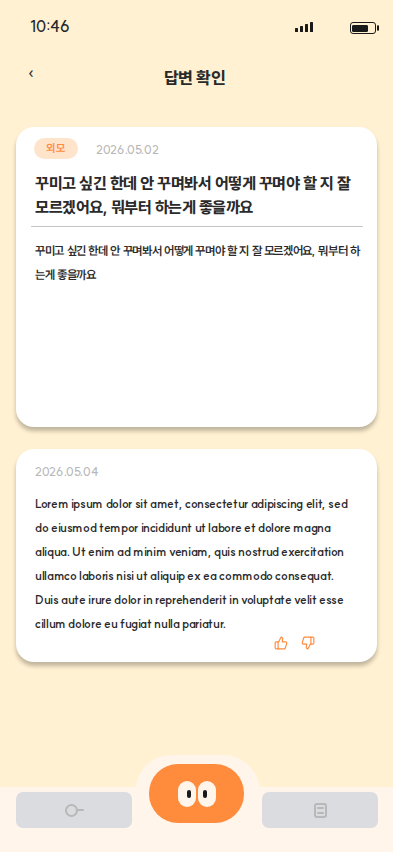
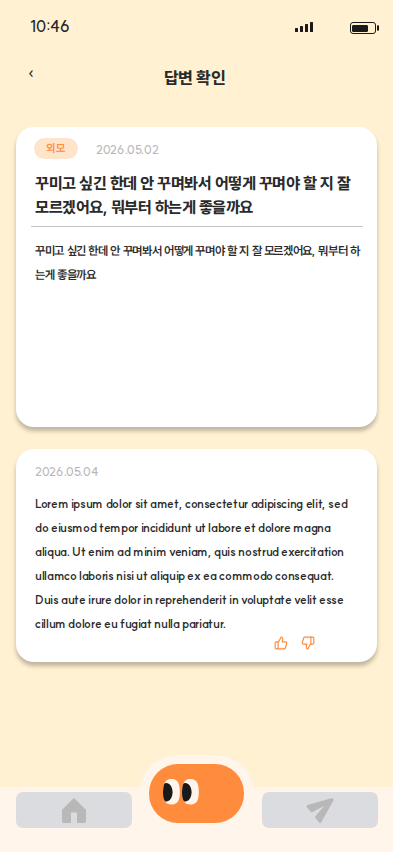
png 6 7 8 v5

diff --git a/src/screens/shared/ui.tsx b/src/screens/shared/ui.tsx
@@ -79,13 +79,32 @@ export function BottomNavigation({
   if (variant === 'pixel-aligned') {
     const sideTabs = tabs.filter(({ tab }) => tab !== centralAction.ownerTab);
     const ownerTab = tabs.find(({ tab }) => tab === centralAction.ownerTab);
+    const leftTab = sideTabs[0];
+    const rightTab = sideTabs[1];
+    const isLeftActive = leftTab ? activeTab === leftTab.tab : false;
+    const isRightActive = rightTab ? activeTab === rightTab.tab : false;
 
     return (
       <nav
         aria-label="주요 화면"
-        className="absolute left-0 bottom-0 z-50 h-[112px] w-[393px] overflow-hidden bg-transparent"
+        className="absolute left-0 bottom-[-7px] z-50 h-[104px] w-[393px] overflow-visible bg-transparent"
       >
-        <div className="absolute left-0 top-[47px] h-[65px] w-[393px] bg-[#fff5eb]" aria-hidden="true" />
+        <svg
+          aria-hidden="true"
+          className="absolute left-0 top-0 h-[104px] w-[417px]"
+          fill="none"
+          preserveAspectRatio="none"
+          viewBox="0 0 417 104"
+        >
+          <rect fill="#FFF5EB" height="88" rx="37" width="114" x="140" />
+          <path d="M0 32H417V104H0V32Z" fill="#FFF5EB" />
+          <rect fill="#FF8B3D" height="59" rx="29" width="95" x="149" y="9" />
+          <ReferenceMenuEyeIcon />
+          <rect fill={isLeftActive ? '#FAE5D7' : '#DADCE0'} height="36" rx="7" width="116" x="16" y="37" />
+          <rect fill={isRightActive ? '#FAE5D7' : '#DADCE0'} height="36" rx="7" width="116" x="262" y="37" />
+          <ReferenceMenuHomeIcon fill={isLeftActive ? '#FF8B3D' : '#B8B8B8'} />
+          <ReferenceMenuSendIcon fill={isRightActive ? '#FF8B3D' : '#B8B8B8'} />
+        </svg>
         {ownerTab && (
           <button
             type="button"
@@ -93,7 +112,7 @@ export function BottomNavigation({
             aria-current={activeTab === ownerTab.tab ? 'page' : undefined}
             onClick={() => onSelectTab(ownerTab.tab)}
             className={cn(
-              'absolute left-[135px] top-[15px] h-[80px] w-[125px] rounded-[37px] bg-[#fff5eb] focus:outline-none focus:ring-2 focus:ring-[#ff8b3d] focus:ring-offset-0',
+              'absolute left-[140px] top-0 z-10 h-[88px] w-[114px] rounded-[37px] bg-transparent focus:outline-none focus:ring-2 focus:ring-[#ff8b3d] focus:ring-offset-0',
               activeTab === ownerTab.tab && 'ring-0',
             )}
           >
@@ -106,46 +125,32 @@ export function BottomNavigation({
           data-target-route={centralAction.targetRoute}
           data-owner-tab={centralAction.ownerTab}
           onClick={onCentralAction}
-          className="absolute left-[149px] top-[24px] flex h-[59px] w-[95px] items-center justify-center rounded-[29px] bg-[#ff8b3d] focus:outline-none focus:ring-2 focus:ring-[#2a2a2a] focus:ring-offset-0"
+          className="absolute left-[149px] top-[9px] z-20 h-[59px] w-[95px] rounded-[29px] bg-transparent focus:outline-none focus:ring-2 focus:ring-[#2a2a2a] focus:ring-offset-0"
         >
-          <span className="relative h-[26px] w-[48px]" aria-hidden="true">
-            <span className="absolute left-[5px] top-0 h-[26px] w-[18px] rounded-full bg-[#fff5eb]" />
-            <span className="absolute left-[25px] top-0 h-[26px] w-[18px] rounded-full bg-[#fff5eb]" />
-            <span className="absolute left-[14px] top-[9px] h-[8px] w-[4px] rounded-full bg-[#1a1a1a]" />
-            <span className="absolute left-[30px] top-[9px] h-[8px] w-[4px] rounded-full bg-[#1a1a1a]" />
-          </span>
+          <span className="sr-only">{centralAction.label}</span>
         </button>
-        {sideTabs.map(({ tab, label }, index) => {
-          const isActive = activeTab === tab;
-          return (
-            <button
-              key={tab}
-              type="button"
-              aria-label={label}
-              aria-current={isActive ? 'page' : undefined}
-              onClick={() => onSelectTab(tab)}
-              className={cn(
-                'absolute top-[52px] flex h-[36px] w-[116px] items-center justify-center rounded-[7px] focus:outline-none focus:ring-2 focus:ring-[#ff8b3d] focus:ring-offset-0',
-                index === 0 ? 'left-[16px]' : 'left-[262px]',
-                isActive ? 'bg-[#fae5d7] text-[#ff8b3d]' : 'bg-[#dadce0] text-[#b8b8b8]',
-              )}
-            >
-              {index === 0 ? (
-                <span className="relative h-[17px] w-[19px]" aria-hidden="true">
-                  <span className="absolute left-0 top-[2px] h-[13px] w-[13px] rounded-full border-[2px] border-current" />
-                  <span className="absolute left-[12px] top-[7px] h-[2px] w-[7px] rounded-full bg-current" />
-                </span>
-              ) : (
-                <span className="relative h-[17px] w-[17px]" aria-hidden="true">
-                  <span className="absolute left-[2px] top-[1px] h-[15px] w-[13px] rounded-[3px] border-[2px] border-current" />
-                  <span className="absolute left-[5px] top-[5px] h-[2px] w-[7px] rounded-full bg-current" />
-                  <span className="absolute left-[5px] top-[10px] h-[2px] w-[7px] rounded-full bg-current" />
-                </span>
-              )}
-              <span className="sr-only">{label}</span>
-            </button>
-          );
-        })}
+        {leftTab && (
+          <button
+            type="button"
+            aria-label={leftTab.label}
+            aria-current={isLeftActive ? 'page' : undefined}
+            onClick={() => onSelectTab(leftTab.tab)}
+            className="absolute left-[16px] top-[37px] z-20 h-[36px] w-[116px] rounded-[7px] bg-transparent focus:outline-none focus:ring-2 focus:ring-[#ff8b3d] focus:ring-offset-0"
+          >
+            <span className="sr-only">{leftTab.label}</span>
+          </button>
+        )}
+        {rightTab && (
+          <button
+            type="button"
+            aria-label={rightTab.label}
+            aria-current={isRightActive ? 'page' : undefined}
+            onClick={() => onSelectTab(rightTab.tab)}
+            className="absolute left-[262px] top-[37px] z-20 h-[36px] w-[116px] rounded-[7px] bg-transparent focus:outline-none focus:ring-2 focus:ring-[#ff8b3d] focus:ring-offset-0"
+          >
+            <span className="sr-only">{rightTab.label}</span>
+          </button>
+        )}
       </nav>
     );
   }
@@ -191,6 +196,46 @@ export function BottomNavigation({
       </div>
     </nav>
   );
+}
+
+const referenceMenuPaths = {
+  p110abb00: 'M191.567 37.254C191.567 42.3804 188.747 46.5363 185.269 46.5363C181.79 46.5363 178.971 44.1811 178.971 37.254C178.971 32.1275 181.79 27.9717 185.269 27.9717C188.747 27.9717 191.567 32.1275 191.567 37.254Z',
+  p15619480: 'M171.445 25C173.661 25.0001 175.364 25.423 176.591 26.8975C177.873 28.4385 178.814 31.33 178.874 36.7569C178.933 42.1729 177.989 45.0535 176.688 46.5869C175.432 48.0665 173.665 48.4912 171.445 48.4912C169.283 48.4912 167.443 47.9447 166.141 46.3701C164.804 44.7543 163.865 41.8616 164.016 36.7754C164.167 31.6584 165.1 28.7376 166.386 27.1026C167.616 25.5384 169.297 25 171.445 25Z',
+  p23c07380: 'M198.85 36.7299C198.97 47.6896 195.081 49.4598 190.433 49.4598C185.785 49.4598 181.71 47.087 182.016 36.7299C182.322 26.3727 185.785 24 190.433 24C195.081 24 198.729 25.7701 198.85 36.7299Z',
+  p29c4a2f0: 'M74.3486 43.1456C74.2556 43.0522 74.1318 43 74.0031 43C73.8744 43 73.7507 43.0522 73.6576 43.1456L62.1562 54.6875C62.1073 54.7366 62.0685 54.7956 62.042 54.8609C62.0154 54.9262 61.9999 55.0696 62 55.1406V65.8999C62 66.4569 62.2106 66.9911 62.5855 67.3849C62.9605 67.7787 63.469 68 63.9992 68H70.0029C70.268 68 70.5223 67.8894 70.7097 67.6925C70.8972 67.4955 71.0025 67.2285 71.0025 66.95V58.0247C71.0025 57.8854 71.0552 57.7519 71.1489 57.6534C71.2426 57.5549 71.3697 57.4996 71.5023 57.4996H76.5002C76.6328 57.4996 76.7599 57.5549 76.8536 57.6534C76.9473 57.7519 77 57.8854 77 58.0247V66.95C77 67.2285 77.1053 67.4955 77.2928 67.6925C77.4802 67.8894 77.7345 68 77.9996 68H84.0008C84.531 68 85.0395 67.7787 85.4145 67.3849C85.7894 66.9911 86 66.4569 86 65.8999V55.0675C86.0001 54.9965 85.9864 54.9262 85.9599 54.8609C85.9334 54.7956 85.8945 54.7366 85.8457 54.6875L74.3486 43.1456Z',
+  p31e3c200: 'M190.445 25C192.661 25.0001 194.364 25.423 195.591 26.8975C196.873 28.4385 197.814 31.33 197.874 36.7569C197.933 42.1729 196.989 45.0535 195.688 46.5869C194.432 48.0665 192.665 48.4912 190.445 48.4912C188.283 48.4912 186.443 47.9447 185.141 46.3701C183.804 44.7543 182.865 41.8616 183.016 36.7754C183.167 31.6584 184.1 28.7376 185.386 27.1026C186.616 25.5384 188.297 25 190.445 25Z',
+  p37614900: 'M331.357 43.178L331.348 43.1804L307.464 50.0019C307.263 50.0587 307.078 50.1645 306.928 50.3099C306.778 50.4553 306.665 50.6357 306.602 50.835C306.533 51.0434 306.517 51.2657 306.555 51.4819C306.594 51.698 306.685 51.9013 306.821 52.0733L310.607 56.8386C310.794 57.0735 311.057 57.2359 311.351 57.2978C311.644 57.3597 311.95 57.3173 312.216 57.1777L323.453 51.2051C323.497 51.1818 323.548 51.1747 323.597 51.185C323.646 51.1954 323.69 51.2225 323.721 51.2616C323.753 51.3008 323.769 51.3497 323.768 51.3997C323.767 51.4497 323.748 51.4978 323.716 51.5357L315.358 61.1313C315.162 61.3584 315.051 61.6467 315.045 61.9467C315.039 62.2466 315.137 62.5394 315.323 62.7745L319.11 67.5407C319.24 67.7049 319.409 67.8342 319.602 67.917C319.795 67.9998 320.005 68.0334 320.214 68.015C320.465 67.9935 320.705 67.8984 320.903 67.7414C321.041 67.632 321.155 67.4963 321.239 67.3421L333.317 45.6614L333.322 45.6513C333.481 45.3553 333.55 45.019 333.52 44.6842C333.49 44.3494 333.363 44.0307 333.154 43.7675C332.945 43.5043 332.663 43.3082 332.344 43.2034C332.024 43.0986 331.681 43.0898 331.357 43.178Z',
+  p3dc36300: 'M179.85 36.7299C179.97 47.6896 176.081 49.4598 171.433 49.4598C166.785 49.4598 162.71 47.087 163.016 36.7299C163.322 26.3727 166.785 24 171.433 24C176.081 24 179.729 25.7701 179.85 36.7299Z',
+  pad1b700: 'M172.567 37.254C172.567 42.3804 169.747 46.5363 166.269 46.5363C162.79 46.5363 159.971 44.1811 159.971 37.254C159.971 32.1275 162.79 27.9717 166.269 27.9717C169.747 27.9717 172.567 32.1275 172.567 37.254Z',
+} as const;
+
+function ReferenceMenuEyeIcon() {
+  return (
+    <>
+      <path d={referenceMenuPaths.p3dc36300} fill="#FFF5EB" />
+      <mask height="26" id="pixel-nav-eye-left-mask" maskUnits="userSpaceOnUse" style={{ maskType: 'alpha' }} width="17" x="163" y="24">
+        <path d={referenceMenuPaths.p15619480} fill="#FFF5EB" stroke="black" strokeWidth="2" />
+      </mask>
+      <g mask="url(#pixel-nav-eye-left-mask)">
+        <path d={referenceMenuPaths.pad1b700} fill="#1A1A1A" />
+      </g>
+      <path d={referenceMenuPaths.p23c07380} fill="#FFF5EB" />
+      <mask height="26" id="pixel-nav-eye-right-mask" maskUnits="userSpaceOnUse" style={{ maskType: 'alpha' }} width="17" x="182" y="24">
+        <path d={referenceMenuPaths.p31e3c200} fill="#FFF5EB" stroke="black" strokeWidth="2" />
+      </mask>
+      <g mask="url(#pixel-nav-eye-right-mask)">
+        <path d={referenceMenuPaths.p110abb00} fill="#1A1A1A" />
+      </g>
+    </>
+  );
+}
+
+function ReferenceMenuHomeIcon({ fill }: { readonly fill: string }) {
+  return <path d={referenceMenuPaths.p29c4a2f0} fill={fill} />;
+}
+
+function ReferenceMenuSendIcon({ fill }: { readonly fill: string }) {
+  return <path d={referenceMenuPaths.p37614900} fill={fill} />;
 }
 
 export function ContentSheet({ children, className }: { readonly children: ReactNode; readonly className?: string }) {

diff --git a/src/screens/receivedWorries/ReceivedWorriesScreen.tsx b/src/screens/receivedWorries/ReceivedWorriesScreen.tsx
@@ -1,4 +1,4 @@
-import { Bell, Loader2, XCircle } from 'lucide-react';
+import { Loader2, XCircle } from 'lucide-react';
 import type { MouseEvent } from 'react';
 import {
   EmptyState,
@@ -34,18 +34,8 @@ export function ReceivedWorriesScreen(props: ReceivedWorriesScreenProps) {
       aria-label="받은 고민 목록"
     >
       <ReferenceStatusBar tone="light" />
-      <div aria-hidden="true" className="absolute left-[42px] top-[74px] h-[27px] w-[38px]">
-        <div className="absolute left-0 top-0 h-[27px] w-[18px] rounded-full bg-[#fff5eb]" />
-        <div className="absolute left-[18px] top-0 h-[27px] w-[18px] rounded-full bg-[#fff5eb]" />
-        <div className="absolute left-[12px] top-[8px] h-[10px] w-[5px] rounded-full bg-[#1a1a1a]" />
-        <div className="absolute left-[25px] top-[8px] h-[10px] w-[5px] rounded-full bg-[#1a1a1a]" />
-      </div>
-      <div
-        aria-hidden="true"
-        className="absolute left-[339px] top-[74px] flex h-[25px] w-[25px] items-center justify-center rounded-full border-2 border-white text-white"
-      >
-        <Bell className="h-[14px] w-[14px]" strokeWidth={2} />
-      </div>
+      <ReferenceProfileIcon />
+      <ReferenceTopRightProfileButtonIcon />
 
       <div className="absolute left-0 top-[119px] h-[733px] w-[393px] overflow-hidden rounded-t-[32px] bg-[#fff1d1] px-[16px] pt-[20px]">
         {props.items.map((item, index) => {
@@ -56,7 +46,7 @@ export function ReceivedWorriesScreen(props: ReceivedWorriesScreenProps) {
           <article
             key={item.deliveryId}
             className="absolute h-[135px] w-[361px] overflow-hidden rounded-[18px] bg-white shadow-[0_4px_4px_rgba(0,0,0,0.25)]"
-            style={{ left: 16, top: 139 + index * 149 }}
+            style={{ left: 16, top: 20 + index * 149 }}
           >
             <button
               type="button"
@@ -95,6 +85,52 @@ export function ReceivedWorriesScreen(props: ReceivedWorriesScreenProps) {
         );
       })}
       </div>
+    </div>
+  );
+}
+
+const receivedWorriesProfilePaths = {
+  p10968100: 'M51.5494 19.8501C51.5494 27.528 47.829 33.7521 43.2396 33.7521C38.6503 33.7521 34.9299 30.2247 34.9299 19.8501C34.9299 12.1722 38.6503 5.94812 43.2396 5.94812C47.829 5.94812 51.5494 12.1722 51.5494 19.8501Z',
+  p2f1c2d00: 'M21.7228 19.3387C21.8778 35.5589 16.8647 38.1786 10.8719 38.1786C4.87903 38.1786 -0.373688 34.667 0.0208912 19.3387C0.415471 4.0104 4.87903 0.498821 10.8719 0.498821C16.8647 0.498821 21.5678 3.11857 21.7228 19.3387Z',
+  p2f962800: 'M25.8164 19.8501C25.8164 27.528 22.096 33.7521 17.5066 33.7521C12.9173 33.7521 9.19687 30.2247 9.19687 19.8501C9.19687 12.1722 12.9173 5.94812 17.5066 5.94812C22.096 5.94812 25.8164 12.1722 25.8164 19.8501Z',
+  p360ee270: 'M47.9965 19.3387C48.1587 35.5589 42.9124 38.1786 36.6408 38.1786C30.3692 38.1786 24.8722 34.667 25.2851 19.3387C25.6981 4.0104 30.3692 0.498821 36.6408 0.498821C42.9124 0.498821 47.8342 3.11857 47.9965 19.3387Z',
+  p37b21770: 'M47.9964 19.0893C48.1552 35.5242 43.0173 38.1786 36.8754 38.1786C30.7334 38.1786 25.35 34.6205 25.7544 19.0893C26.1588 3.55806 30.7334 0 36.8754 0C43.0173 0 47.8375 2.65443 47.9964 19.0893Z',
+  pf977a80: 'M22.2634 19.0893C22.4222 35.5242 17.2843 38.1786 11.1424 38.1786C5.00044 38.1786 -0.382987 34.6205 0.0214111 19.0893C0.425809 3.55808 5.00044 1.72574e-05 11.1424 1.72574e-05C17.2843 1.72574e-05 22.1045 2.65444 22.2634 19.0893Z',
+  p36aa5a00: 'M12.4998 12.4306C14.4942 12.4306 16.1109 10.8139 16.1109 8.81951C16.1109 6.82515 14.4942 5.2084 12.4998 5.2084C10.5055 5.2084 8.88871 6.82515 8.88871 8.81951C8.88871 10.8139 10.5055 12.4306 12.4998 12.4306Z',
+  p37b1ab00: 'M19.722 21.4584V19.6528C19.722 18.6951 19.3416 17.7766 18.6644 17.0994C17.9872 16.4222 17.0687 16.0417 16.1109 16.0417H8.88871C7.93098 16.0417 7.01248 16.4222 6.33527 17.0994C5.65805 17.7766 5.2776 18.6951 5.2776 19.6528V21.4584',
+} as const;
+
+function ReferenceProfileIcon() {
+  return (
+    <div aria-hidden="true" className="absolute left-[32px] top-[68px] h-[38.179px] w-[48.001px]">
+      <svg className="absolute inset-0 block size-full" fill="none" preserveAspectRatio="none" viewBox="0 0 48.0001 38.1786">
+        <path d={receivedWorriesProfilePaths.p2f1c2d00} fill="#FFF5EB" />
+        <mask height="39" id="received-profile-left-mask" maskUnits="userSpaceOnUse" style={{ maskType: 'alpha' }} width="23" x="0" y="0">
+          <path d={receivedWorriesProfilePaths.pf977a80} fill="#FFF5EB" />
+        </mask>
+        <g mask="url(#received-profile-left-mask)">
+          <path d={receivedWorriesProfilePaths.p2f962800} fill="#1A1A1A" />
+        </g>
+        <path d={receivedWorriesProfilePaths.p360ee270} fill="#FFF5EB" />
+        <mask height="39" id="received-profile-right-mask" maskUnits="userSpaceOnUse" style={{ maskType: 'alpha' }} width="23" x="25" y="0">
+          <path d={receivedWorriesProfilePaths.p37b21770} fill="#FFF5EB" />
+        </mask>
+        <g mask="url(#received-profile-right-mask)">
+          <path d={receivedWorriesProfilePaths.p10968100} fill="#1A1A1A" />
+        </g>
+      </svg>
+    </div>
+  );
+}
+
+function ReferenceTopRightProfileButtonIcon() {
+  return (
+    <div aria-hidden="true" className="absolute left-[339px] top-[74px] size-[25px]">
+      <svg className="absolute inset-0 block size-full" fill="none" preserveAspectRatio="none" viewBox="0 0 25 25">
+        <path d={receivedWorriesProfilePaths.p37b1ab00} stroke="white" strokeLinecap="round" strokeLinejoin="round" strokeWidth="1.83333" />
+        <path d={receivedWorriesProfilePaths.p36aa5a00} stroke="white" strokeLinecap="round" strokeLinejoin="round" strokeWidth="1.83333" />
+        <circle cx="12.5" cy="12.5" r="11.5" stroke="white" strokeWidth="2" />
+      </svg>
     </div>
   );
 }

diff --git a/tmp/main-flow-pixel-alignment/notes.html b/tmp/main-flow-pixel-alignment/notes.html
@@ -22,7 +22,7 @@
     <ul>
       <li>loaded/success branch만 화면 전용 <code>393px x 852px</code> 캔버스로 교체했다. loading/error/empty branch는 유지했다.</li>
       <li>카드는 전체 클릭 가능한 실제 <code>button</code>을 유지하고, 건너뛰기 버튼은 <code>event.stopPropagation()</code>, <code>onPass</code>, disabled/processing 상태를 유지한다.</li>
-      <li>상단 프로필/알림은 preview 및 chrome-neutral 경로를 위한 시각 전용 요소다. 기존 production handler가 없으므로 새 navigation behavior를 만들지 않았다.</li>
+      <li>상단 좌측 캐릭터와 우측 profile/my-page-like 아이콘은 preview 및 chrome-neutral 경로를 위한 시각 전용 요소다. 기존 production handler가 없으므로 새 navigation behavior를 만들지 않았다.</li>
       <li>preview harness fixture 문자열은 참조 Component.tsx의 한국어 문구를 production prop shape에 맞게 재사용했다. production route에는 fixture 문자열이 없다.</li>
       <li>production에서는 카드 개수를 맞추기 위한 fabricated card를 만들지 않는다. 실제 <code>props.items</code>가 1개면 1개 카드만 보이며, 이는 reference PNG와의 남은 시각 차이로 기록한다.</li>
     </ul>
@@ -51,8 +51,8 @@
       <li><code>MobileAppShell</code>에 presentation-only <code>frameMode?: "default" | "pixel-aligned"</code>를 추가했다. 기본값은 <code>default</code>라서 비대상 route 동작은 그대로 유지된다.</li>
       <li><code>frameMode="pixel-aligned"</code>에서는 <code>main</code>이 <code>mx-auto min-h-[852px] w-[393px] p-0</code>만 사용한다. <code>max-w-2xl</code>, shell-x padding, <code>pt-24</code>, bottom scroll padding을 적용하지 않는다. CSS transform scaling은 사용하지 않는다.</li>
       <li><code>App.tsx</code>는 06(<code>답변하기</code>, <code>received_worries</code>), 07(<code>write_worry</code>), 08(<code>answer_check</code>, <code>read_received_reply</code>, <code>received_answer_detail</code>)에서만 <code>usesPixelAlignedFrame</code>을 켠다.</li>
-      <li><code>usesPixelAlignedFrame</code>이 true일 때 App shell은 global authenticated header를 넘기지 않고, real <code>BottomNavigation</code>도 넘기지 않으며, <code>hasBottomNavigation={false}</code>와 frame-neutral main을 사용한다.</li>
-      <li>06 route branch는 pixel-aligned mode에서 App-level <code>답변하기</code> title row와 interest badge를 렌더링하지 않는다. 06 내부 시각 bottom chrome만 남기고 real fixed bottom navigation은 mount하지 않아 duplicate navigation chrome이 없다.</li>
+      <li><code>usesPixelAlignedFrame</code>이 true일 때 App shell은 global authenticated header를 넘기지 않고, 기능형 <code>BottomNavigation variant="pixel-aligned"</code>를 <code>393px</code> frame 내부에 absolute로 mount한다.</li>
+      <li>06 route branch는 pixel-aligned mode에서 App-level <code>답변하기</code> title row와 interest badge를 렌더링하지 않는다. 06 내부 decorative bottom chrome은 제거했고, shared 기능형 bottom navigation만 남겨 duplicate navigation chrome이 없다.</li>
       <li>07 write-worry canvas는 global header/bottom nav 아래에 떠 있는 child가 아니라 frame-neutral main의 직접 body로 렌더링된다. 내부 back button, textarea, submit behavior는 그대로 유지했다.</li>
       <li>08 received-answer-detail canvas도 frame-neutral main의 직접 body로 렌더링된다. <code>my-answer-detail</code> branch는 기존 shell/panel behavior를 유지한다.</li>
       <li>수정은 route-frame presentation logic에 한정했다. route selection, auth guard, data loading, handlers, contracts, mapping modules, services, Firestore, server code는 변경하지 않았다.</li>
@@ -61,7 +61,7 @@
     <ul>
       <li>production routes는 real container props를 사용한다. fixture strings and objects는 <code>tmp/main-flow-pixel-alignment/preview.tsx</code>에만 존재한다.</li>
       <li><code>ReceivedWorriesScreen</code>은 loaded branch에서 <code>props.items.map((item, index) =&gt; ...)</code>만 사용한다. 각 card는 <code>item.deliveryId</code>, <code>item.worryId</code>, <code>item.category</code>, <code>item.receivedAt.isoValue</code>, <code>item.receivedAt.label</code>, <code>item.bodyText ?? item.previewText</code>, <code>item.isUnread</code>, <code>props.passingDeliveryIds</code>로 렌더링/동작한다.</li>
-      <li>06의 decorative internal bottom chrome은 production screen에서 제거했다. 대신 <code>BottomNavigation presentationMode="pixel-aligned"</code>를 App shell이 같은 <code>393px</code> frame 안에 렌더링하며, 기존 <code>onSelectTab</code>과 <code>onCentralAction</code> handlers를 그대로 사용한다.</li>
+      <li>06의 decorative internal bottom chrome은 production screen에서 제거했다. 대신 <code>BottomNavigation variant="pixel-aligned"</code>를 App shell이 같은 <code>393px</code> frame 안에 렌더링하며, 기존 <code>onSelectTab</code>과 <code>onCentralAction</code> handlers를 그대로 사용한다.</li>
       <li>06 상단 profile/bell chrome은 기존 production handler가 없는 visual-only chrome이다. 새 profile 또는 notification navigation behavior를 만들지 않았고, product navigation은 기능형 bottom navigation으로 유지한다.</li>
       <li>07은 real <code>draft.value</code>, <code>onDraftChange</code>, <code>submitDisabledReason</code>, <code>isProcessing</code>, <code>onPublish</code>, validation/moderation 상태를 사용한다. AI 필터 안내는 DOM에 유지하되 reference capture 영역 밖에 배치했다.</li>
       <li>08은 real <code>props.originalWorry</code>, <code>props.reply</code>, <code>props.existingFeedback</code>, <code>props.selectedFeedback</code>, comment validation/moderation/draft props를 사용한다. feedback buttons는 기존처럼 <code>onFeedbackChange</code> 다음 <code>onFeedbackSubmit</code>을 호출한다.</li>
@@ -72,11 +72,21 @@
       <li>이전 수정은 기능형 <code>BottomNavigation</code>을 <code>393px</code> frame 안에 넣었지만, old production design인 fixed/grid/lucide/central text pill/border shadow style을 그대로 유지했다.</li>
       <li><code>BottomNavigation</code>에 presentation-only <code>variant?: "default" | "pixel-aligned"</code>를 추가했다. default variant는 기존 fixed viewport nav, 3-column grid, lucide icons, central <code>고민 작성</code> pill을 그대로 유지한다.</li>
       <li>pixel-aligned variant는 shared UI 한 곳에서만 reference bottom bar geometry를 구현한다. production screens에는 screen-local fake nav 또는 <code>aria-hidden</code> replacement nav를 렌더링하지 않는다.</li>
-      <li>pixel variant는 <code>absolute left:0 bottom:0 width:393px height:112px</code> frame 안에서 base cream band, side tab buttons, center owner-tab hit area, and orange central write action을 배치한다.</li>
-      <li>측정 기준은 06 bottom nav bbox <code>(0,740,393,852)</code>, active item <code>(135,755,260,835)</code>, 08 bottom nav/chrome <code>(0,760,393,852)</code>를 시작점으로 삼았다. 구현 CSS는 selected bg <code>left:135 top:15 width:125 height:80</code>, center action <code>left:149 top:24 width:95 height:59</code>이다.</li>
+      <li>pixel variant는 <code>absolute left:0 bottom:-7px width:393px height:104px</code> frame에서 <code>417px</code> wide reference MenuBar SVG를 렌더링하고, 그 위에 투명 기능 버튼을 배치한다.</li>
+      <li>측정 기준은 06 bottom nav bbox <code>(0,740,393,852)</code>, active item <code>(135,755,260,835)</code>, 08 bottom nav/chrome <code>(0,760,393,852)</code>를 시작점으로 삼았다. 구현 SVG는 selected bg <code>x=140 y=0 width=114 height=88</code>, center action <code>x=149 y=9 width=95 height=59</code>이다.</li>
       <li>각 nav item은 functional button이다. side tabs call <code>onSelectTab(tab)</code>, center owner-tab background calls <code>onSelectTab(ownerTab.tab)</code>, orange center action calls <code>onCentralAction</code>. Active tab state는 tab buttons에 <code>aria-current="page"</code>로 반영된다.</li>
       <li>중앙 orange shape는 reference의 large center item을 write-worry central action으로 해석했다. 그 주변 cream selected background는 central action의 owner tab인 <code>나의 고민</code> tab hit area로 유지해 tab navigation도 잃지 않았다.</li>
-      <li>남은 mismatch: reference SVG icon path와 production CSS-drawn icon glyph가 완전히 동일하지는 않다. 그러나 old lucide icon/text pill/grid visual은 pixel variant에서 제거했고, navigation behavior는 보존했다.</li>
+      <li>left home, right send/message, center eye icon은 CSS-drawn approximation을 제거하고 reference SVG path data를 production-local 상수로 복사했다. old lucide icon/text pill/grid visual은 pixel variant에서 제거했고, navigation behavior는 보존했다.</li>
+    </ul>
+    <h2>Fine visual correction pass</h2>
+    <ul>
+      <li>남은 icon mismatch는 <code>design/reference</code>를 import하지 않고, 필요한 path data만 production-local 상수로 복사해 inline SVG로 렌더링하는 방식으로 수정했다.</li>
+      <li>06 좌측 상단 캐릭터는 <code>design/reference/src/screens/received-worries/svg-c1fzchw7wo.ts</code>의 <code>p2f1c2d00</code>, <code>pf977a80</code>, <code>p2f962800</code>, <code>p360ee270</code>, <code>p37b21770</code>, <code>p10968100</code>을 사용한다. CSS ellipse approximation은 제거했다.</li>
+      <li>06 우측 상단 profile/my-page-like 아이콘은 같은 reference 파일의 <code>p37b1ab00</code>, <code>p36aa5a00</code>과 circle stroke를 사용한다. 기존 lucide <code>Bell</code>은 제거했다. 이 아이콘은 기존 production handler가 없으므로 reference-matching visual profile icon이며 새 route behavior를 만들지 않았다.</li>
+      <li>shared pixel-aligned bottom navigation은 <code>design/reference/src/screens/received-worries/svg-c1fzchw7wo.ts</code>의 <code>p29c4a2f0</code>, <code>p37614900</code>, <code>p3dc36300</code>, <code>p15619480</code>, <code>pad1b700</code>, <code>p23c07380</code>, <code>p31e3c200</code>, <code>p110abb00</code>을 사용한다. default bottom navigation branch는 변경하지 않았다.</li>
+      <li>pixel-aligned bottom navigation은 계속 functional이다. side tab buttons는 <code>onSelectTab</code>, 중앙 orange write action은 <code>onCentralAction</code>, owner-tab hit area는 <code>onSelectTab(ownerTab.tab)</code>을 호출한다.</li>
+      <li>06 카드 본문 위치 문제는 text CSS top만 보지 않고 렌더된 glyph bbox로 확인했다. 최종 첫 카드 bbox는 <code>(16,139,377,274)</code>, 첫 본문 glyph bbox는 <code>(36,200,356,238)</code>이다. 핵심 수정은 카드 absolute top을 sheet-local <code>20 + n*149</code>로 바로잡은 것이다.</li>
+      <li>07 textarea placeholder overlap은 textarea padding을 <code>pl-[50.5px] pr-[25px] pt-[20.5px] pb-[48px]</code>로 바꿔 해결했다. 실제 textarea, typing, validation, disabled, maxLength, submit behavior는 유지된다.</li>
     </ul>
   </body>
 </html>

diff --git a/src/screens/shared/uiContract.test.ts b/src/screens/shared/uiContract.test.ts
@@ -109,14 +109,15 @@ test('bottom navigation pixel-aligned variant keeps functional actions with refe
   } satisfies BottomNavigationProps;
   const html = renderToStaticMarkup(createElement(BottomNavigation, props));
 
-  assert.match(html, /absolute left-0 bottom-0/);
-  assert.match(html, /h-\[112px\] w-\[393px\]/);
-  assert.match(html, /left-\[135px\] top-\[15px\] h-\[80px\] w-\[125px\]/);
-  assert.match(html, /left-\[149px\] top-\[24px\].*h-\[59px\] w-\[95px\]/);
+  assert.match(html, /absolute left-0 bottom-\[-7px\]/);
+  assert.match(html, /bottom-\[-7px\]/);
+  assert.match(html, /h-\[104px\] w-\[393px\]/);
+  assert.match(html, /viewBox="0 0 417 104"/);
+  assert.match(html, /left-\[140px\] top-0 z-10 h-\[88px\] w-\[114px\]/);
+  assert.match(html, /left-\[149px\] top-\[9px\].*h-\[59px\] w-\[95px\]/);
   assert.match(html, /aria-label="고민 작성"/);
   assert.match(html, /aria-current="page"/);
   assert.doesNotMatch(html, /fixed inset-x-0 bottom-0/);
-  assert.doesNotMatch(html, />고민 작성</);
 });
 
 test('bottom navigation pixel-aligned source preserves tab and central callbacks', () => {
@@ -125,9 +126,14 @@ test('bottom navigation pixel-aligned source preserves tab and central callbacks
   assert.match(source, /variant === 'pixel-aligned'/);
   assert.match(source, /onClick=\{onCentralAction\}/);
   assert.match(source, /onClick=\{\(\) => onSelectTab\(ownerTab\.tab\)\}/);
-  assert.match(source, /onClick=\{\(\) => onSelectTab\(tab\)\}/);
+  assert.match(source, /onClick=\{\(\) => onSelectTab\(leftTab\.tab\)\}/);
+  assert.match(source, /onClick=\{\(\) => onSelectTab\(rightTab\.tab\)\}/);
   assert.match(source, /aria-current=\{activeTab === ownerTab\.tab \? 'page' : undefined\}/);
-  assert.match(source, /aria-current=\{isActive \? 'page' : undefined\}/);
+  assert.match(source, /aria-current=\{isLeftActive \? 'page' : undefined\}/);
+  assert.match(source, /aria-current=\{isRightActive \? 'page' : undefined\}/);
+  assert.match(source, /p29c4a2f0/);
+  assert.match(source, /p37614900/);
+  assert.match(source, /p3dc36300/);
 });
 
 test('profile motif remains visual-only without avatar data requirements', () => {

diff --git a/tmp/main-flow-pixel-alignment/measurements.html b/tmp/main-flow-pixel-alignment/measurements.html
@@ -30,15 +30,17 @@
       </thead>
       <tbody>
         <tr><td>공통</td><td>route frame</td><td>각 PNG <code>size: 393x852</code></td><td>전역 헤더/외부 nav/route title 없음, 하단 nav는 기능형</td><td><code>MobileAppShell frameMode="pixel-aligned"</code>, <code>main: relative mx-auto w-[393px] min-h-[852px] p-0</code>, <code>BottomNavigation variant="pixel-aligned"</code></td><td><code>06/07/08-production.png</code></td><td>393x852 캔버스가 기존 shell body 안에 중첩되던 문제와 decorative nav 문제를 함께 수정</td><td>하네스는 동일 frame-neutral shell과 기능형 nav를 사용하며 auth/data loading은 fixture props로 대체</td><td>App shell + shared shell</td></tr>
-        <tr><td>공통</td><td>bottom navigation</td><td>06 <code>#fff5eb largest: (0,755,393,852)</code>; 08 <code>#ff8b3d largest: (149,764,244,823)</code></td><td>06 nav <code>(0,740,393,852)</code>, active <code>(135,755,260,835)</code>; 08 nav <code>(0,760,393,852)</code></td><td>shared nav <code>bottom:0; width:393; height:112</code>, selected bg <code>left:135; top:15; width:125; height:80</code>, center action <code>left:149; top:24; width:95; height:59</code></td><td><code>06/07/08-production.png</code></td><td>old fixed/grid/lucide nav를 pixel variant에서 reference geometry로 교체</td><td>nav container 자체는 투명이라 색상 bbox는 visible cream/orange shapes 기준으로 측정됨</td><td>shared shell</td></tr>
-        <tr><td>06</td><td>캔버스</td><td><code>size: 393x852</code>, dominant <code>#ffffff 146786px, #fff1d1 71572px, #ff8b3d 52744px</code></td><td><code>393x852</code></td><td><code>393x852</code></td><td><code>06-production.png</code></td><td>프리뷰 하네스에서 고정 모바일 캔버스 사용</td><td>전체 non-bg는 상태바/상단 배경/기능형 nav 때문에 <code>(0,0,393,852)</code></td><td>screen-local + shared shell nav</td></tr>
+        <tr><td>공통</td><td>bottom navigation</td><td>06 cream <code>(0,755,393,852)</code>, orange <code>(62,764,244,823)</code>; 08 orange <code>(149,764,244,823)</code></td><td>06 nav <code>(0,740,393,852)</code>, active <code>(135,755,260,835)</code>; MenuBar TSX <code>left:0 top:755 width:417 height:104</code></td><td>shared nav <code>left:0; bottom:-7; width:393; height:104</code>, SVG <code>width:417 viewBox 0 0 417 104</code>, selected bg <code>x=140 y=0 w=114 h=88</code>, center action <code>x=149 y=9 w=95 h=59</code></td><td>home icon <code>(62,799,86,823)</code>, send icon <code>(307,799,333,822)</code>, center eye dark components inside <code>(164,784,198,804)</code></td><td>CSS 도형/lucide 대신 reference path 기반 inline SVG로 교체하고, 투명 기능 버튼을 위에 배치</td><td>focus ring은 interaction 상태에서만 나타나며 정적 PNG에는 없음</td><td>shared shell</td></tr>
+        <tr><td>06</td><td>캔버스</td><td><code>size: 393x852</code>, dominant <code>#ffffff 166549px, #ff8b3d 52462px, #fff1d1 45711px</code></td><td><code>393x852</code></td><td><code>393x852</code></td><td><code>06-production.png</code></td><td>프리뷰 하네스에서 고정 모바일 캔버스 사용</td><td>전체 non-bg는 상태바/상단 배경/기능형 nav 때문에 <code>(0,0,393,852)</code></td><td>screen-local + shared shell nav</td></tr>
         <tr><td>06</td><td>시트/목록 영역</td><td><code>#fff1d1 largest: (0,119,393,787)</code></td><td><code>(0,119,393,852)</code></td><td><code>left:0; top:119; width:393; height:733</code></td><td><code>06-production.png</code></td><td>참조의 크림 시트 시작점을 맞춤</td><td>기능형 <code>BottomNavigation</code> cream band가 <code>y=755</code>부터 덮어 하단 bbox가 reference nav 기준으로 분리됨</td><td>screen-local + shared shell nav</td></tr>
-        <tr><td>06</td><td>카드 1-3</td><td>흰색 최대 연결 요소 <code>(16,407,377,542)</code>; 시각 좌표는 카드 반복 배치로 확인</td><td><code>(16,139)-(377,274)</code>, <code>(16,288)-(377,423)</code>, <code>(16,437)-(377,572)</code></td><td><code>left:16; top:139 + n*149; width:361; height:135</code></td><td><code>06-production.png</code></td><td>공유 카드 padding/shadow 대신 화면 전용 마크업 사용</td><td>production은 <code>props.items</code> 수만 렌더링한다. 실제 데이터가 1개면 1개 카드만 보인다.</td><td>screen-local</td></tr>
+        <tr><td>06</td><td>상단 좌측 캐릭터</td><td><code>(33,69,79,106)</code></td><td>wrapper <code>(32,68,80,106)</code>, viewBox <code>0 0 48.0001 38.1786</code></td><td><code>left:32; top:68; width:48.001; height:38.179</code>, reference path/mask SVG</td><td><code>06-production.png</code></td><td>CSS ellipse approximation을 제거하고 reference path data를 production-local 상수로 복사</td><td>안티앨리어싱으로 visible bbox가 wrapper보다 1px 안쪽에서 시작</td><td>screen-local</td></tr>
+        <tr><td>06</td><td>상단 우측 profile 버튼 아이콘</td><td><code>(340,75,363,98)</code></td><td>wrapper <code>(339,74,364,99)</code>, viewBox <code>0 0 25 25</code></td><td><code>left:339; top:74; width:25; height:25</code>, reference stroke SVG</td><td><code>06-production.png</code></td><td>lucide Bell을 제거하고 reference의 profile/my-page-like circle icon path로 교체</td><td>stroke antialiasing으로 visible bbox가 wrapper보다 1px 안쪽</td><td>screen-local</td></tr>
+        <tr><td>06</td><td>카드 1-3 및 본문</td><td>첫 카드 <code>(16,139,377,274)</code>, 첫 본문 glyph <code>(36,200,356,238)</code></td><td>카드 <code>(16,139)-(377,274)</code>, 본문 <code>(36,200,353,238)</code></td><td>sheet-local card <code>left:16; top:20 + n*149; width:361; height:135</code>, text <code>left:19; top:56; width:325</code></td><td><code>06-production.png</code></td><td>카드 absolute top을 캔버스 좌표가 아니라 sheet-local 좌표로 바로잡고, text top은 렌더 glyph bbox 기준으로 확인</td><td>본문 오른쪽 bbox는 fixture 문자열 길이/폰트 안티앨리어싱 때문에 reference와 몇 px 다름. production은 real <code>props.items</code>만 렌더링한다.</td><td>screen-local</td></tr>
         <tr><td>07</td><td>캔버스/헤더</td><td><code>size: 393x852</code>, non-bg <code>(0,20,393,852)</code>, dominant <code>#fff5eb 203013px, #fff1d1 101424px, #ff8b3d 17314px</code></td><td>back <code>(24,71,31,84)</code>, title <code>(164,72,224,87)</code></td><td>컨테이너 <code>393x852</code>, back <code>left:22; top:56</code>, title <code>left:163.5; top:69</code></td><td><code>07-production.png</code></td><td>WriteWorryContainer가 해당 route chrome 소유자</td><td>실제 glyph bbox는 폰트 안티앨리어싱 의존, 하단은 기능형 nav가 차지</td><td>container chrome + shared shell nav</td></tr>
-        <tr><td>07</td><td>textarea/placeholder/counter</td><td><code>#fff5eb largest: (21,121,372,660)</code>, orange border 조각 <code>(20,138,21,643)</code></td><td>textarea <code>(18,118,375,663)</code>, placeholder <code>(45,145,281,163)</code>, counter <code>(304,626,353,636)</code></td><td><code>left:20; top:120; width:353; height:541</code>, padding으로 placeholder/counter 조정</td><td><code>07-production.png</code></td><td>실제 textarea 유지, QlingTextArea wrapper 제거</td><td>border/radius 때문에 색상 bbox가 내부 면 기준으로 잡힘</td><td>screen-local + container chrome</td></tr>
+        <tr><td>07</td><td>textarea/placeholder/counter</td><td><code>#fff5eb largest: (21,121,372,660)</code>, icon <code>(45,145,63,163)</code>, placeholder glyph <code>(74,148,279,161)</code></td><td>textarea <code>(18,118,375,663)</code>, icon <code>left:22.5 top:22.5</code> local, placeholder CSS <code>left:50.5 top:20.5</code> local</td><td><code>left:20; top:120; width:353; height:541</code>, textarea padding <code>pl:50.5; pr:25; pt:20.5; pb:48</code></td><td><code>07-production.png</code></td><td>실제 textarea 유지하면서 placeholder/typed text 시작점을 icon 오른쪽으로 이동</td><td>placeholder visible bbox는 glyph ink 기준이라 CSS x=70.5보다 오른쪽인 <code>x=74</code>부터 측정됨</td><td>screen-local + container chrome</td></tr>
         <tr><td>07</td><td>CTA</td><td><code>#ff8b3d largest: (64,684,329,732)</code></td><td><code>(63,684,330,732)</code></td><td><code>left:63; top:684; width:267; height:48</code></td><td><code>07-production.png</code></td><td>PrimaryCTA radius/padding 영향 제거</td><td>rounded pill의 antialiasing 때문에 좌우 1px 안쪽으로 측정됨</td><td>screen-local</td></tr>
         <tr><td>08</td><td>원문 카드</td><td><code>#ffffff largest: (16,127,377,427)</code>, dominant <code>#ffffff 164293px</code></td><td><code>(16,127,377,427)</code></td><td><code>left:16; top:127; width:361; height:300</code></td><td><code>08-production.png</code></td><td>received-answer-detail 분기만 전용 프레임 사용</td><td>본문은 production에서 <code>props.originalWorry</code>를 사용한다. 하네스만 fixture props를 사용한다.</td><td>screen-local</td></tr>
-        <tr><td>08</td><td>답변 카드/피드백</td><td><code>#fff1d1 largest: (0,0,393,787)</code>, answer card는 시각 bbox로 확인</td><td>answer <code>(16,449,377,662)</code>, controls <code>(250,176,348,205)</code> local</td><td>answer <code>left:16; top:449; width:361; height:213</code>, controls <code>left:254; top:183</code> inside answer card</td><td><code>08-production.png</code></td><td>피드백 props가 visible일 때만 실제 버튼 렌더</td><td>기능형 bottom nav가 하단을 덮으며, icon glyph는 CSS shape라 reference vector와 소폭 차이 있음</td><td>screen-local + shared shell nav</td></tr>
+        <tr><td>08</td><td>답변 카드/피드백</td><td><code>#fff1d1 largest: (0,0,393,787)</code>, answer card는 시각 bbox로 확인</td><td>answer <code>(16,449,377,662)</code>, controls <code>(250,176,348,205)</code> local</td><td>answer <code>left:16; top:449; width:361; height:213</code>, controls <code>left:254; top:183</code> inside answer card</td><td><code>08-production.png</code></td><td>피드백 props가 visible일 때만 실제 버튼 렌더</td><td>기능형 bottom nav가 하단을 덮으며, shared pixel variant icon은 reference SVG path를 사용한다.</td><td>screen-local + shared shell nav</td></tr>
       </tbody>
     </table>
   </body>

diff --git a/src/screens/writeForm/WriteFormScreen.tsx b/src/screens/writeForm/WriteFormScreen.tsx
@@ -112,7 +112,7 @@ export function WriteFormScreen(props: WriteFormScreenProps) {
           disabled={props.draft.isProcessing}
           aria-invalid={Boolean(validationMessage) || undefined}
           placeholder="당신의 솔직한 이야기를 들려주세요"
-          className="absolute inset-0 h-full w-full resize-none bg-transparent px-[25px] pb-[48px] pt-[20.5px] text-[16px] font-bold leading-[24px] tracking-[-0.64px] text-[#2a2a2a] outline-none placeholder:text-[#b8b8b8] disabled:cursor-not-allowed disabled:opacity-60"
+          className="absolute inset-0 h-full w-full resize-none bg-transparent pb-[48px] pl-[50.5px] pr-[25px] pt-[20.5px] text-[16px] font-bold leading-[24px] tracking-[-0.64px] text-[#2a2a2a] outline-none placeholder:text-[#b8b8b8] disabled:cursor-not-allowed disabled:opacity-60"
         />
         <Sparkles className="pointer-events-none absolute left-[22.5px] top-[22.5px] h-[20px] w-[20px] text-[#b8b8b8]" aria-hidden="true" />
         <span className="pointer-events-none absolute left-[281.5px] top-[501.5px] text-[13px] font-bold leading-none text-[#b8b8b8]">